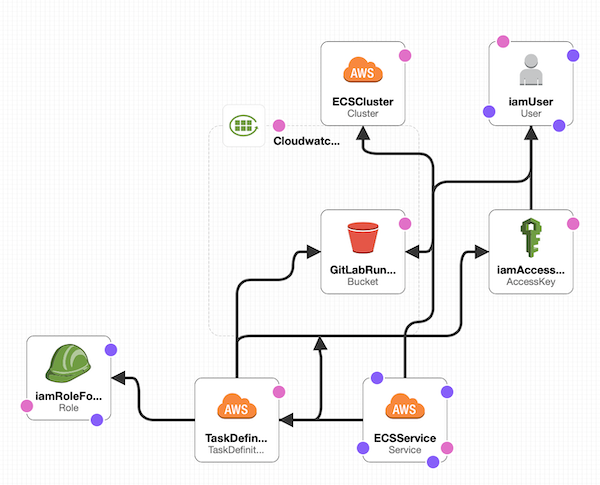
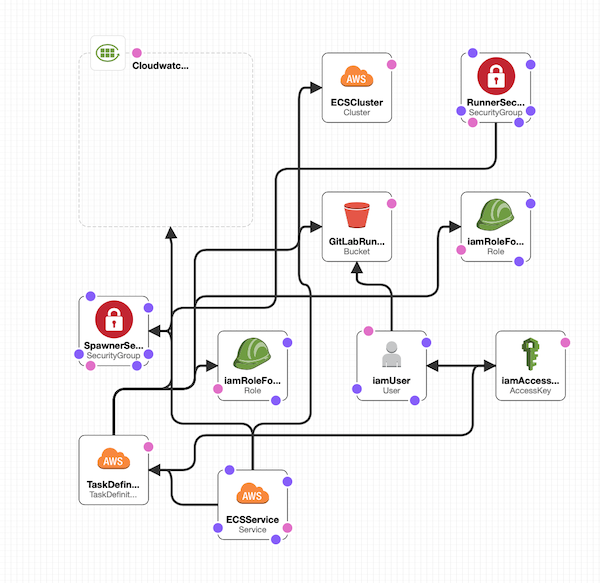
make progress on #4
IAM user is now only used for S3 access

Changed region(s): [[0.03, 0.0619, 0.99, 0.9588], [0.15, 0.0619, 0.3, 0.1237]]

diff --git a/readme.md b/readme.md
@@ -12,6 +12,7 @@ The purpose of the CloudFormation template is to create a Fargate Service that m
 * `SubnetID` - Select subnets - Must be in the selected VPC!
 * `GitLabURL` - The Gitlab URL, change if self-hosted
 * `GitLabRegistrationToken` - The Gitlab runer registration token
+* `AdditionalRegisterParams` - Any additional parameters you want to pass to `gitlab-runner register`
 * `InstanceType` - The instance type of the runners
 * `RootVolumeSize` -The size of the root volume on the runners
 * `CacheExpirationInDays` - Select how long to store a jobs cache output in S3
@@ -21,7 +22,8 @@ The purpose of the CloudFormation template is to create a Fargate Service that m
 
 ## Resource Created
 
-* IAM User - Needed as Fargate doesn't support Instance Profiles
+* IAM User - Used to connect to S3
+* IAM Roles for ECS
 * S3 Bucket for runner cache
 * ECS Cluster, Service & Task Definition
 * CloudWatch Logs Groups that streams to logs for the spawner
